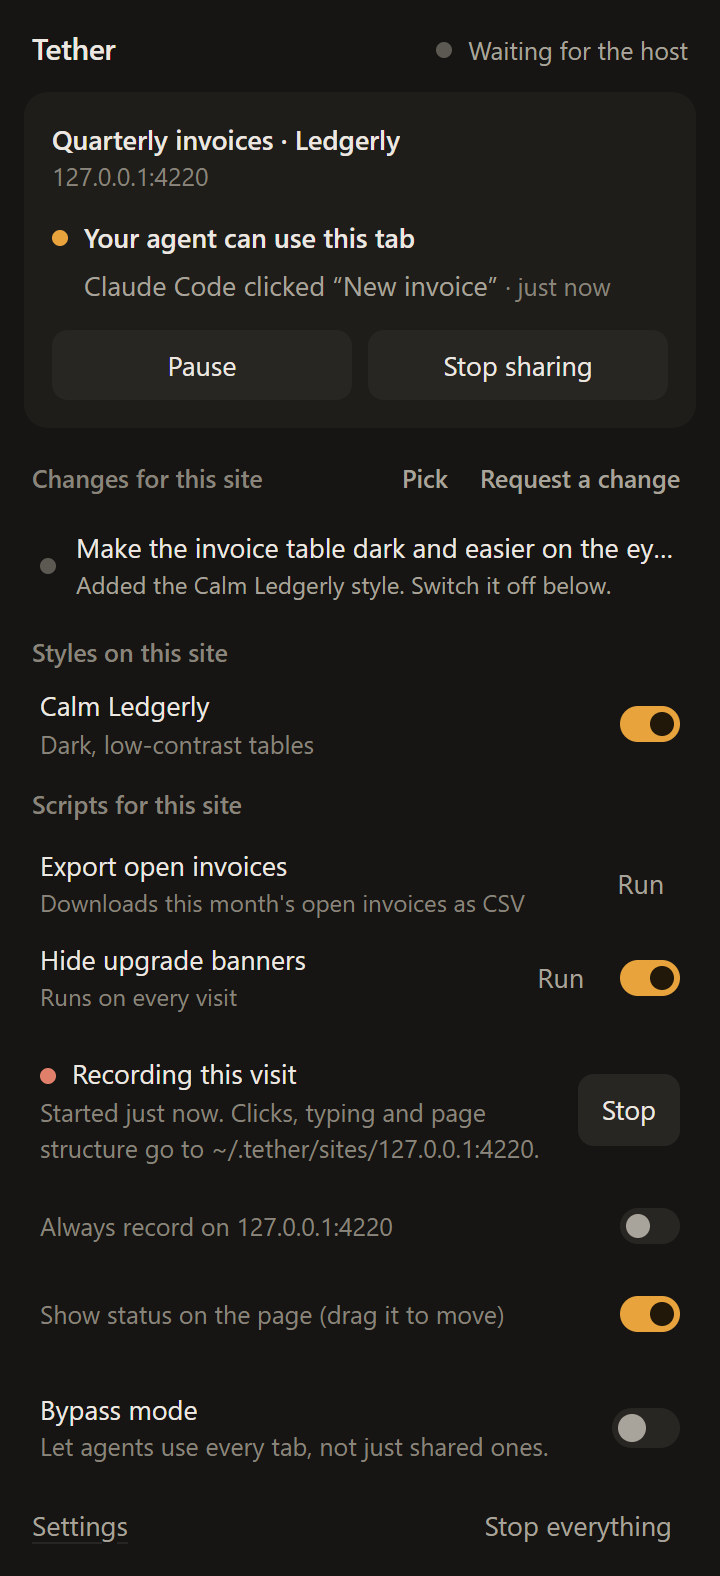
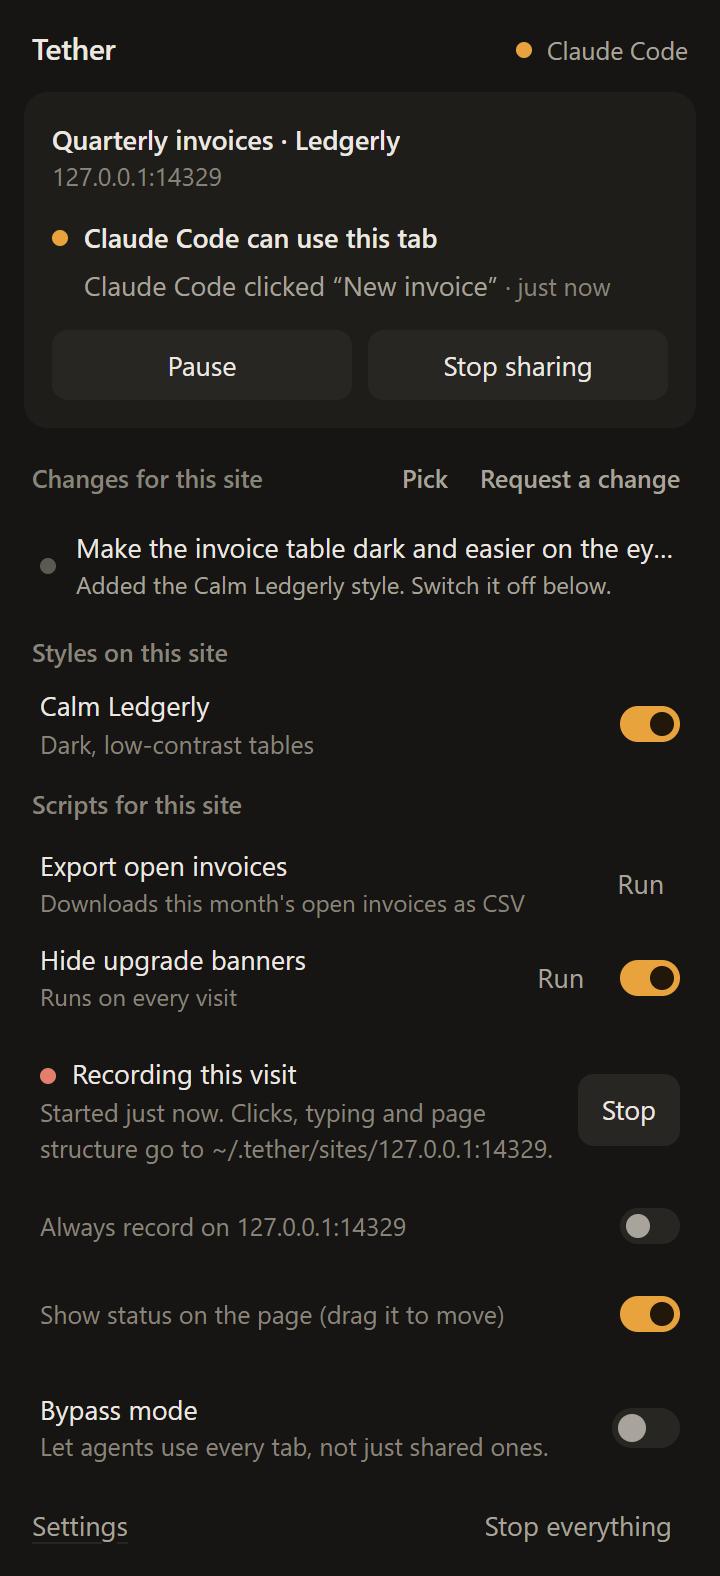
Pick the right tab in a new session window when the browser adds pinned tabs

diff --git a/extension/background.js b/extension/background.js
@@ -502,7 +502,10 @@ async function startSession({ agent, reason, url, mode = "window" }) {
   const win = await api.windows.create({ url: url || "about:blank", focused: true, type: "normal", width: 1280, height: 860 });
   state.agentWindows.add(win.id);
   await persistWindows();
-  const tab = win.tabs?.[0] || (await api.tabs.query({ windowId: win.id }))[0];
+  // Zen and some other forks put pinned or "essential" tabs into every new
+  // window, so the first tab isn't necessarily ours: take the active one.
+  const tabs = win.tabs?.length ? win.tabs : await api.tabs.query({ windowId: win.id });
+  const tab = tabs.find((t) => t.active && !t.pinned) || tabs.find((t) => !t.pinned) || tabs.find((t) => t.active) || tabs[0];
   state.shared.set(tab.id, { by: "agent", since: Date.now() });
   await persist();
   setBadge(tab.id, true);
@@ -625,8 +628,9 @@ api.webNavigation.onCreatedNavigationTarget.addListener(async (d) => {
 
 api.tabs.onCreated.addListener(async (tab) => {
   await ready;
-  // Any tab in an agent's own window belongs to its session.
-  if (state.agentWindows.has(tab.windowId) && !state.shared.has(tab.id)) {
+  // Any tab in an agent's own window belongs to its session, except pinned
+  // ones a browser like Zen copies into every new window.
+  if (state.agentWindows.has(tab.windowId) && !tab.pinned && !state.shared.has(tab.id)) {
     state.shared.set(tab.id, { by: "agent", since: Date.now() });
     await persist();
     setBadge(tab.id, true);
